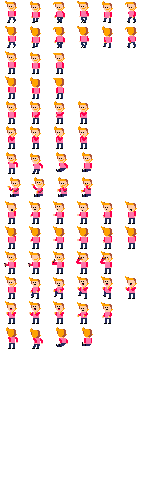
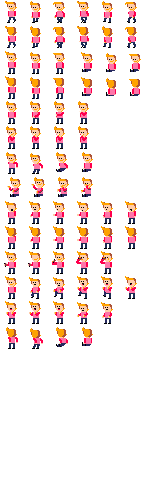
add freeze sit

Changed region(s): [[0.8889, 0.09, 0.9722, 0.21], [0.7222, 0.09, 0.8056, 0.21], [0.5556, 0.09, 0.6389, 0.21]]

diff --git a/src/game/human_stuff/HumanAnimationManager.ts b/src/game/human_stuff/HumanAnimationManager.ts
@@ -11,6 +11,7 @@ export enum ANIMATION {
     TALK,
     DRINK,
     RAGE,
+    FREEZE_SIT,
 }
 
 export class HumanAnimationManager {
@@ -56,6 +57,7 @@ export class HumanAnimationManager {
     private static getAnimationFrames(animation: ANIMATION, topOriented: boolean = null) {
         switch (animation) {
             case ANIMATION.FREEZE: return topOriented ? [18, 19, 20] : [12, 13, 14];
+            case ANIMATION.FREEZE_SIT: return topOriented ? [21, 22, 23] : [15, 16, 17];
             case ANIMATION.WALK: return topOriented ? [6, 7, 8, 9, 10, 11] : [0, 1, 2, 3, 4, 5];
             case ANIMATION.SIT_DOWN: return topOriented ? [18, 78, 79, 80, 81] : [12, 36, 37, 38, 39];
             case ANIMATION.STAND_UP: return topOriented ? [81, 80, 79, 78, 18] : [39, 38, 37, 36, 12];
@@ -88,6 +90,7 @@ export class HumanAnimationManager {
 
     private static getAnimations(): ANIMATION[] {
         return [
+            ANIMATION.FREEZE_SIT,
             ANIMATION.FREEZE,
             ANIMATION.WALK,
             ANIMATION.SMOKE,
@@ -106,7 +109,8 @@ export class HumanAnimationManager {
             ANIMATION.FREEZE,
             ANIMATION.TALK,
             ANIMATION.SIT_DOWN,
-            ANIMATION.STAND_UP
+            ANIMATION.STAND_UP,
+            ANIMATION.FREEZE_SIT,
         ].indexOf(animation) > -1;
     }
 
@@ -119,12 +123,14 @@ export class HumanAnimationManager {
             ANIMATION.SMOKE,
             ANIMATION.TYPE,
             ANIMATION.DRINK,
+            ANIMATION.FREEZE_SIT,
         ].indexOf(animation) > -1;
     }
 
     static getAnimationStr(animation: ANIMATION): string {
         switch (animation) {
             case ANIMATION.FREEZE: return 'FZ';
+            case ANIMATION.FREEZE_SIT: return 'FS';
             case ANIMATION.WALK: return 'WK';
             case ANIMATION.SIT_DOWN: return 'SD';
             case ANIMATION.STAND_UP: return 'SU';

diff --git a/src/game/human_states/SitTalkState.ts b/src/game/human_states/SitTalkState.ts
@@ -45,6 +45,9 @@ export class SitTalkState extends AbstractState {
                     this.meeting.getTable().forceOrientation(this.meeting.getCell(this.human).getIdentifier()),
                     this.table.forceTopOrientation(this.meeting.getCell(this.human).getIdentifier())
                 );
+                this.events.push(this.game.time.events.add(HumanAnimationManager.getAnimationTime(ANIMATION.SIT_DOWN) + 100, () => {
+                    this.human.loadAnimation(ANIMATION.FREEZE_SIT);
+                }, this));
                 this.isHumanSit = true;
             }));
         }
@@ -140,6 +143,6 @@ export class SitTalkState extends AbstractState {
     }
 
     private static otherAnimation(animation: ANIMATION) {
-        return animation === ANIMATION.TALK ? ANIMATION.FREEZE : ANIMATION.TALK;
+        return animation === ANIMATION.TALK ? ANIMATION.FREEZE_SIT : ANIMATION.TALK;
     }
 }
